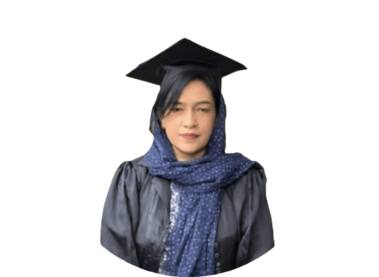
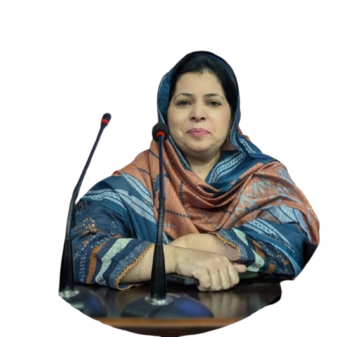
directors

diff --git a/src/Data/pro.js b/src/Data/pro.js
@@ -1,6 +1,6 @@
 import Owner from "../assets/images/owner.png";
-import principal from "../assets/images/principal.png";
 import director from "../assets/images/director.png";
+import director2 from "../assets/images/director2.png";
 import Pro from "../assets/images/pro.png";
 import Pro2 from "../assets/images/pro 2.png";
 import Fish from "../assets/images/pro_fish.png";
@@ -45,21 +45,21 @@ export const messages = {
     owner: "Rana Sohail Ahmed",
     designation: "Founder & Chairman",
   },
-  Principal: {
+  Director: {
     title: "Leadership Is About Inspiring Others!",
     description: `As the Principal, I believe in fostering a culture of excellence,
         compassion, and innovation. Our goal is to provide students with the
         skills and mindset they need to excel in a rapidly changing world.`,
-    image: principal,
-    owner: "Mrs Nighat Saqib",
-    designation: "Principal",
+    image: director,
+    owner: "Mrs Noreen Faisal",
+    designation: "Director",
   },
-  Director: {
+  Director2: {
     title: "Empowering Future Leaders!",
     description: `As the Director, I am dedicated to ensuring that our students
         receive a holistic education that goes beyond academics, nurturing
         their talents and preparing them to lead with integrity.`,
-    image: director,
+    image: director2,
     owner: "Mrs Saima Waqas",
     designation: "Director",
   },
@@ -320,3 +320,6 @@ export const Testimonials = [
     image: Test_Person4,
   },
 ];
+
+
+
